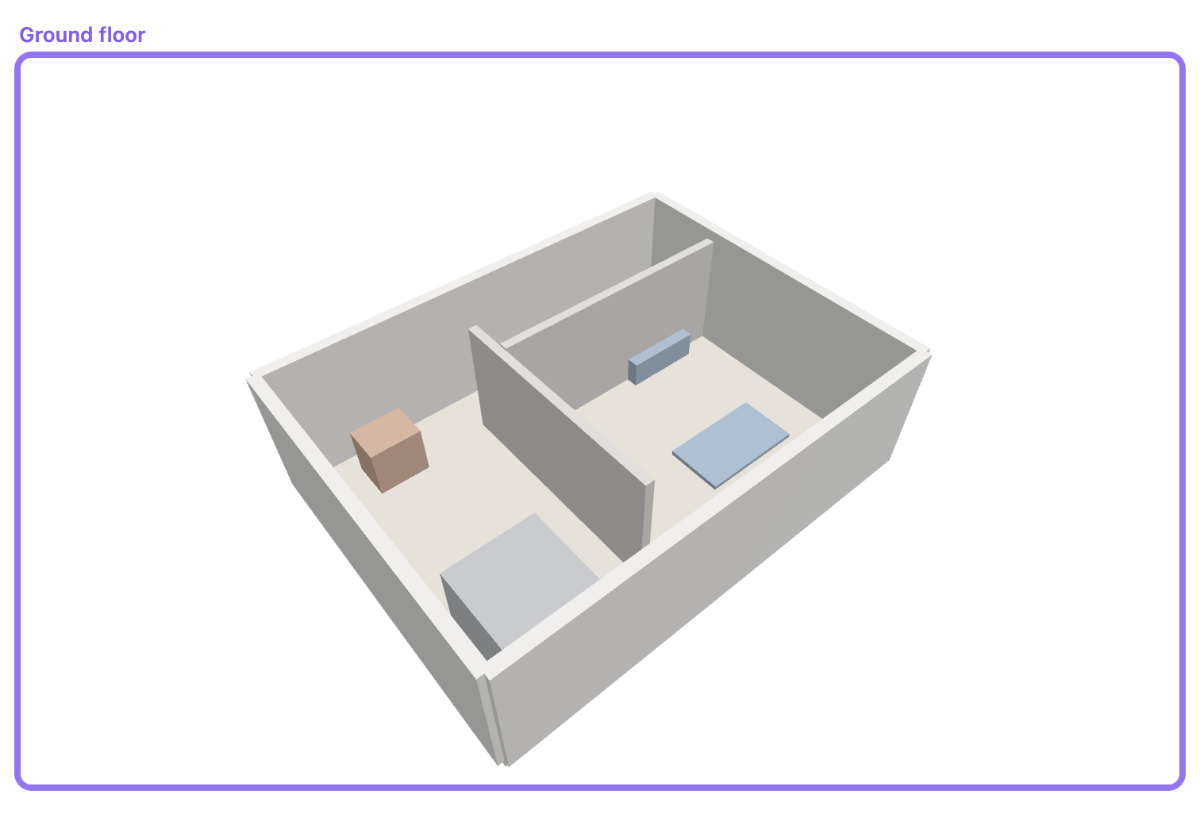
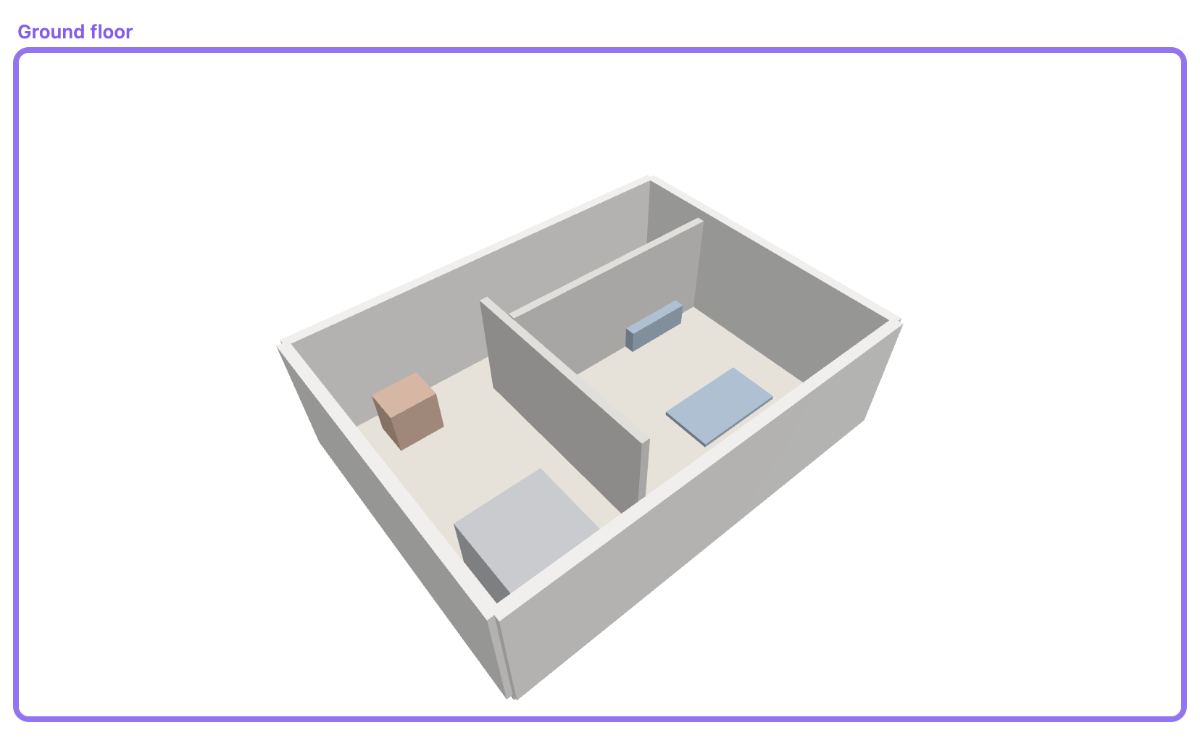
fix(shots): Workspace-Aufraeumen auf Container-Ebene, Hero und GIF neu
Johannes hat den entscheidenden Hinweis gegeben: bei jedem Bild kam eine Tab-Gruppe
dazu, wodurch jede schmaler wurde — "ein Blick auf das ganze Obsidian-Fenster haette
dir das gezeigt". Genau das war mein Fehler: ich hatte das Vollbild einmal angesehen,
danach nur noch Messwerte gelesen. An denen sah jede Stufe wie ein Renderer-Problem aus.

Drei Ursachen, die dieser Blick zutage foerderte:

1. Drei Aufraeum-Verfahren meldeten Erfolg und taten nichts (iterateRootLeaves+detach,
   detachLeavesOfType, workspace:close-others). Erst das Abraeumen auf Container-Ebene
   ueber rootSplit.children wirkt.
2. livePreview blieb nach den Split-Bildern abgeschaltet — jedes Folgebild zeigte
   Quelltext statt Modell. Jeder Shot stellt seine Voraussetzungen jetzt selbst her.
3. Das wirksame Abraeumen erwischte dann das Blatt mit der gerade geoeffneten Datei:
   ein Tab in voller Breite, leerer Inhalt. Jetzt wird erst geoeffnet, dann aufgeraeumt,
   und das aktive Blatt bleibt verschont.

Ergebnis: die ersten Bilder gelingen verlaesslich, hero.png hat keinen doppelten Titel
mehr (showInlineTitle), und orbit.gif zeigt das Modell formatfuellend statt als Punkt
(1,1 MB statt 5,4 MB). Beides waren Johannes' Beanstandungen.

Nach zwei bis drei Bildern kippt der Workspace weiterhin; der verbleibende Ausloeser ist
nicht gefunden und im Vertrag dokumentiert — samt dem Hinweis, nach jedem Lauf ein
Vollbild anzusehen statt nur die Zahlen zu lesen.

diff --git a/scripts/shots.ts b/scripts/shots.ts
@@ -79,11 +79,20 @@ interface Shot {
  *  den ersten gezeichneten Frame. Ohne den zweiten fotografiert man ein leeres Canvas. */
 async function blockBereit(cdp: Cdp, notiz: string, index = 0): Promise<boolean> {
   await cdp.send("Page.bringToFront");
-  await closeExtraLeaves(cdp);
+  // Live Preview WIEDER AN. splitQuelleUndBild schaltet sie ab, damit links echter
+  // Quelltext steht — und liess sie bisher aus. Jedes Bild danach zeigte dann Quelltext
+  // statt Modell: kein gerenderter Block, keine Fehlermeldung, nur "leseflaeche: 0".
+  // Sichtbar war das nur im Vollbild des Fensters; an den Messwerten sah es aus wie ein
+  // Renderer-Problem. Jeder Shot stellt seine Voraussetzungen deshalb selbst her.
+  await setAppConfig(cdp, "livePreview", true);
+  // ERST oeffnen, DANN aufraeumen: so ist das aktive Blatt garantiert das mit der Datei,
+  // und das Abraeumen kann sich daran orientieren, statt zu raten, welches bleiben darf.
   if (!(await openExisting(cdp, notiz, "preview"))) {
     console.log(`      · ${notiz} liess sich nicht oeffnen (Datei im Vault?)`);
     return false;
   }
+  const uebrig = await closeExtraLeaves(cdp);
+  if (uebrig > 1) console.log(`      · ${uebrig} Blaetter offen — Aufraeumen unvollstaendig`);
 
   // SICHTBARE Bloecke, nicht alle: Obsidian haelt die Inhalte geschlossener Blaetter im
   // DOM. `querySelectorAll(".tdcb-block")[0]` traf dort ein 0x0-Element, und jeder
@@ -188,6 +197,14 @@ async function splitQuelleUndBild(cdp: Cdp, notiz: string): Promise<boolean> {
   `, 20_000, 300));
 }
 
+/** Nach einem Split-Bild aufraeumen: Blatt zu, Live Preview zurueck.
+ *  Ohne das bleibt eine Tab-Gruppe stehen, und die naechste kommt daneben — nach drei
+ *  Bildern ist jede Spalte 380 px breit und jedes Modell darin winzig. */
+async function splitAufloesen(cdp: Cdp): Promise<void> {
+  await closeExtraLeaves(cdp);
+  await setAppConfig(cdp, "livePreview", true);
+}
+
 /** Den Block aktiv machen und die Kamera einpassen.
  *
  * Beides ist noetig, bevor ein Bild etwas taugt: ohne Aktivierung liefert
@@ -211,6 +228,10 @@ async function blickwinkel(cdp: Cdp, azimut: number, elevation: number): Promise
   `));
 }
 
+/** Reihenfolge ist load-bearing: die beiden Split-Bilder (Quelltext + Rendering
+ *  nebeneinander) hinterlassen einen Workspace, den das Aufraeumen bei Obsidian 1.13
+ *  nicht vollstaendig zuruecksetzt. Stehen sie in der Mitte, scheitert alles danach.
+ *  Ganz am Ende beschaedigen sie nur noch sich selbst. */
 const SHOTS: Shot[] = [
   {
     name: "hero.png",
@@ -219,15 +240,6 @@ const SHOTS: Shot[] = [
       if (!(await blockBereit(cdp, "Ground-floor.md"))) return null;
       await blickwinkel(cdp, 320, 46);
       return boxOf(cdp, ".tdcb-block", PADDING);
-    },
-  },
-  {
-    name: "code-and-render.png",
-    klasse: "feature",
-    async run(cdp) {
-      if (!(await splitQuelleUndBild(cdp, "Ground-floor.md"))) return null;
-      await blickwinkel(cdp, 320, 46);
-      return boxOf(cdp, ".workspace-split.mod-root", 0);
     },
   },
   {
@@ -269,14 +281,6 @@ const SHOTS: Shot[] = [
       `, 10_000, 300);
       if (!gefuellt) return null;
       return boxAround(cdp, [".tdcb-block", ".tdcb-panel"], PADDING);
-    },
-  },
-  {
-    name: "saved-view.png",
-    klasse: "feature",
-    async run(cdp) {
-      if (!(await splitQuelleUndBild(cdp, "Saved-view.md"))) return null;
-      return boxOf(cdp, ".workspace-split.mod-root", 0);
     },
   },
   {
@@ -356,6 +360,24 @@ const SHOTS: Shot[] = [
         return true;
       `);
       return boxOf(cdp, ".vertical-tab-content", 0);
+    },
+  },
+  {
+    name: "code-and-render.png",
+    klasse: "feature",
+    async run(cdp) {
+      if (!(await splitQuelleUndBild(cdp, "Ground-floor.md"))) return null;
+      await blickwinkel(cdp, 320, 46);
+      const box = await boxOf(cdp, ".workspace-split.mod-root", 0);
+      return box;
+    },
+  },
+  {
+    name: "saved-view.png",
+    klasse: "feature",
+    async run(cdp) {
+      if (!(await splitQuelleUndBild(cdp, "Saved-view.md"))) return null;
+      return boxOf(cdp, ".workspace-split.mod-root", 0);
     },
   },
 ];
@@ -523,6 +545,9 @@ async function main(): Promise<void> {
     try {
       const box = await shot.run(cdp);
       const png = box ? await capture(cdp, box) : null;
+      // Nach JEDEM Bild aufraeumen, nicht nur nach den Split-Bildern: welcher Zustand
+      // zurueckbleibt, darf das naechste Bild nicht bestimmen.
+      await splitAufloesen(cdp);
       if (!png) {
         console.log(`  ✗ ${shot.name} — Zustand kam nicht zustande`);
         fehlend++;

diff --git a/scripts/lib/cdp.ts b/scripts/lib/cdp.ts
@@ -306,24 +306,37 @@ export async function pollUntil<T>(
  *  eindeutig, sonst oeffnet die naechste Notiz womoeglich in der Sidebar. */
 export async function closeExtraLeaves(cdp: Cdp): Promise<number> {
   return Number(await cdp.evaluate<number>(`
-    // Obsidians eigenes Kommando zuerst: die Handarbeit ueber iterateRootLeaves +
-    // detach() liess bei Obsidian 1.13 vertikale Splits stehen — nach fuenf Aufnahmen
-    // standen fuenf Spalten a 200 px nebeneinander, und jedes Bild darin war zu schmal,
-    // ohne dass irgendetwas fehlschlug.
-    // detachLeavesOfType raeumt ALLE Blaetter eines Typs ab, auch die in fremden
-    // Tab-Gruppen und Splits. iterateRootLeaves sah davon nur eines und meldete
-    // "aufgeraeumt", waehrend sieben Gruppen nebeneinander standen.
+    // Alles ausser dem AKTIVEN Blatt schliessen — und zwar nach dem Oeffnen, nicht davor.
     //
-    // ABER nur wenn noetig: den Workspace bei jedem Bild leerzureissen bringt Obsidian
-    // in einen Zustand, in dem das naechste geoeffnete Blatt nicht mehr rendert — die
-    // Datei gilt als aktiv, die Leseflaeche bleibt leer. Ein einzelnes Blatt ist bereits
-    // der Zielzustand und wird deshalb in Ruhe gelassen.
-    const vorher = [];
-    app.workspace.iterateRootLeaves((l) => vorher.push(l));
-    if (vorher.length > 1) {
-      app.workspace.detachLeavesOfType("markdown");
-      await new Promise((r) => setTimeout(r, 400));
+    // Vorgeschichte, weil sie teuer war: iterateRootLeaves + detach() liess Splits
+    // stehen; detachLeavesOfType("markdown") meldete Erfolg und aenderte nichts;
+    // workspace:close-others griff nicht. Als das Abraeumen auf Container-Ebene endlich
+    // wirkte, raeumte es das Blatt mit weg, in dem die Datei gerade geoeffnet worden war:
+    // ein Tab in voller Breite, mit leerem Inhalt. Deshalb wird jetzt gezielt das aktive
+    // Blatt verschont.
+    //
+    // Sichtbar wurde diese ganze Kette erst auf Screenshots des GANZEN Fensters. An den
+    // Messwerten sah jede Stufe wie ein Renderer-Problem aus.
+    const aktiv = app.workspace.getMostRecentLeaf(app.workspace.rootSplit);
+    const alle = [];
+    app.workspace.iterateRootLeaves((l) => alle.push(l));
+    for (const blatt of alle) {
+      if (blatt !== aktiv) blatt.detach();
     }
+    await new Promise((r) => setTimeout(r, 300));
+
+    // Leere Tab-Gruppen bleiben als schmale Spalten stehen und schnueren das aktive
+    // Blatt ein. rootSplit.children sind diese Gruppen.
+    const root = app.workspace.rootSplit;
+    for (let runde = 0; runde < 12 && root.children.length > 1; runde++) {
+      const leer = root.children.find(
+        (g) => !Array.isArray(g.children) || g.children.length === 0,
+      );
+      if (!leer || typeof leer.detach !== "function") break;
+      leer.detach();
+      await new Promise((r) => setTimeout(r, 120));
+    }
+    await new Promise((r) => setTimeout(r, 250));
     const uebrig = [];
     app.workspace.iterateRootLeaves((l) => uebrig.push(l));
     return uebrig.length;

diff --git a/docs/images/README.md b/docs/images/README.md
@@ -27,24 +27,36 @@ eine Datei ohne Eintrag und eine Einbettung ohne Vertragszeile sind je ein Befun
 | `unknown-key.png` | Der Pruefling **versteckt das Modell**, wenn ein Schluessel unbekannt ist — GUI-Smoke-Punkt B15 ist genau deswegen rot („meldet sich, versteckt aber das Modell nicht"). Das Bild, das dieser Vertrag beschreibt (Meldung UND Modell), kann es derzeit nicht geben. Erst klaeren, ob das Verhalten oder die Beschreibung falsch ist. |
 | `settings.png` | Die Einstellungen sind in Obsidian 1.13 ein **eigenes Fenster** mit URL `about:blank`. Der Treiber bringt mit `attachTo("settings", port)` schon den Weg dorthin mit, das Rezept nutzt ihn noch nicht. |
 
-### Offen: der Sammellauf ist nicht stabil
+### Offen: der Workspace kippt nach zwei bis drei Bildern
 
-`npm run shots` liefert je Lauf unterschiedlich viele Bilder — mal sieben, mal drei. Die
-Diagnosezeile des Treibers zeigt das Muster: die Notiz gilt als aktiv, `bloeckeGesamt` ist
-1, aber `leseflaeche` bleibt 0 — Obsidian rendert das gerade geöffnete Blatt nicht. Je
-mehr Bilder ein Lauf vorher aufgenommen hat, desto häufiger tritt es auf.
+`npm run shots` liefert die ersten ein bis drei Bilder zuverlässig und danach keines mehr.
+Die Diagnosezeile zeigt immer dasselbe: die Notiz gilt als aktiv, `bloeckeGesamt` ist 1,
+aber `leseflaeche` bleibt 0 — Obsidian rendert das geöffnete Blatt nicht. Ein Neustart
+setzt zurück; die Reihenfolge der Bilder ändert nichts.
 
-Was bereits ausgeschlossen ist: es liegt **nicht** an Chromiums Drosselung
-(`Page.bringToFront` steht früh und vor jedem Bild), **nicht** an abgetrennten Blättern
-(`openExisting` prüft `parent`), **nicht** am Fehlen einer Wartezeit (es wird auf
-gerenderten Inhalt gewartet, nicht auf „Datei aktiv") und **nicht** am Aufräumen allein
-(auch die sanfte Variante zeigt es).
+**Sichtbar wurde die Ursachenkette erst auf Screenshots des GANZEN Fensters** — an den
+Messwerten sah jede Stufe wie ein Renderer-Problem aus. Wer hier weitermacht, sollte nach
+jedem Lauf ein Vollbild ansehen, nicht nur die Zahlen lesen. Was dabei zutage kam:
 
-**Bis das geklärt ist: nach jedem `--setup` Obsidian neu starten und die fehlenden Bilder
-einzeln mit `--only <name>` nachziehen.** Und vor dem Committen die Maße prüfen — ein
-misslungener Lauf hinterlässt kleinere, schlechtere Bilder an derselben Stelle, ohne dass
-etwas fehlschlägt. Der Bild-Standard fängt das: beim letzten missratenen Lauf meldete
-`shots:check` ein Hochformat-Hero, ein 5,4-MB-GIF und die gerissene Ordner-Summe.
+1. Der Workspace wuchs bei jedem Bild um eine Tab-Gruppe, bis jede Spalte 380 px breit war
+   und jedes Modell darin winzig. Drei Aufräum-Verfahren meldeten Erfolg und taten nichts
+   (`iterateRootLeaves` + `detach`, `detachLeavesOfType`, `workspace:close-others`); erst
+   das Abräumen auf **Container-Ebene** (`rootSplit.children`) wirkt.
+2. `livePreview: false` — für die Split-Bilder nötig — blieb danach gesetzt. Jedes
+   Folgebild zeigte Quelltext statt Modell. Jeder Shot stellt seine Voraussetzungen
+   inzwischen selbst her.
+3. Das Abräumen erwischte das Blatt, in dem die Datei gerade geöffnet worden war: ein Tab
+   in voller Breite mit leerem Inhalt. Deshalb wird jetzt erst geöffnet, dann aufgeräumt,
+   und das aktive Blatt bleibt verschont.
+
+Nach diesen drei Korrekturen gelingen die ersten Bilder verlässlich — der Rest noch nicht.
+Der verbleibende Auslöser ist nicht gefunden.
+
+**Bis dahin gilt: `--only <name>` nach frischem Obsidian-Start.** Und vor dem Committen die
+Maße prüfen: ein misslungener Lauf hinterlässt kleinere, schlechtere Bilder an derselben
+Stelle, ohne dass etwas fehlschlägt. Der Bild-Standard fängt genau das — beim missratenen
+Lauf am 2026-08-15 meldete `shots:check` ein Hochformat-Hero, ein 5,4-MB-GIF und die
+gerissene Ordner-Summe.
 
 ## Konventionen
 
